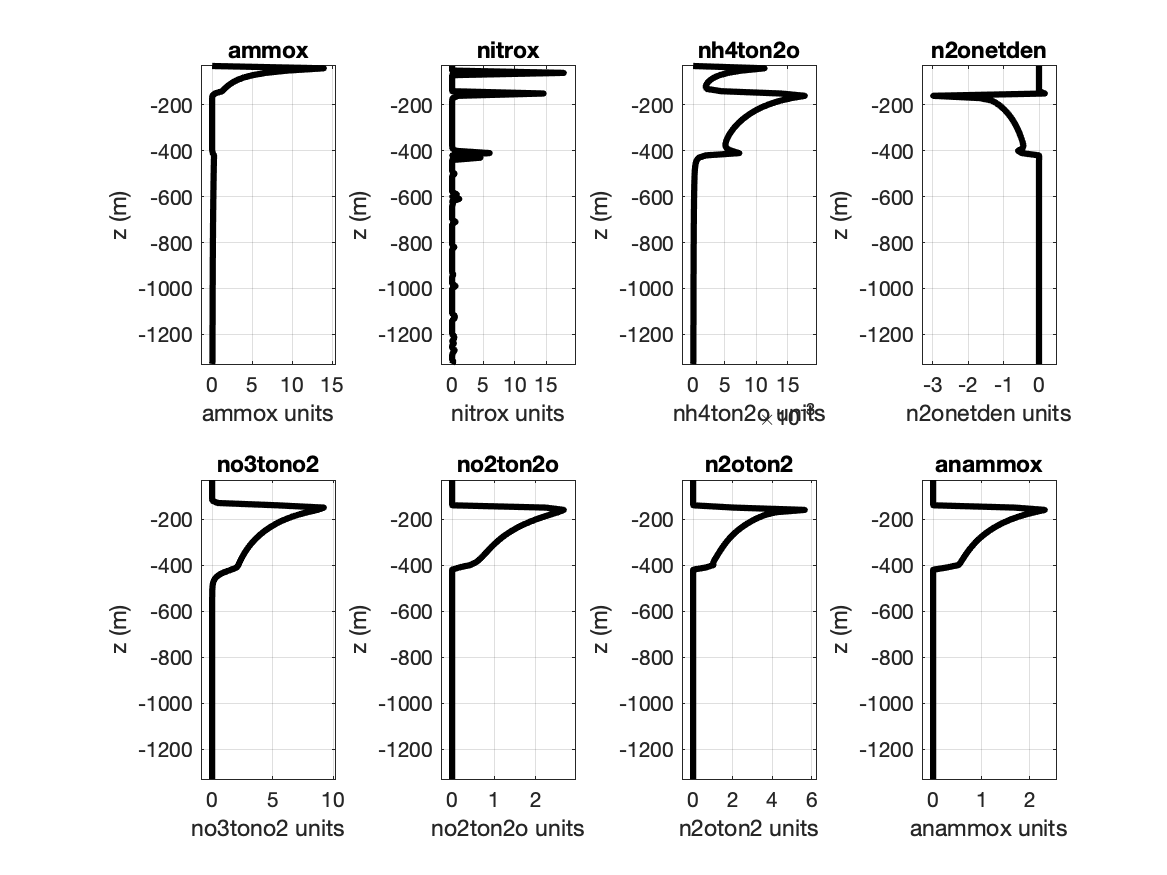
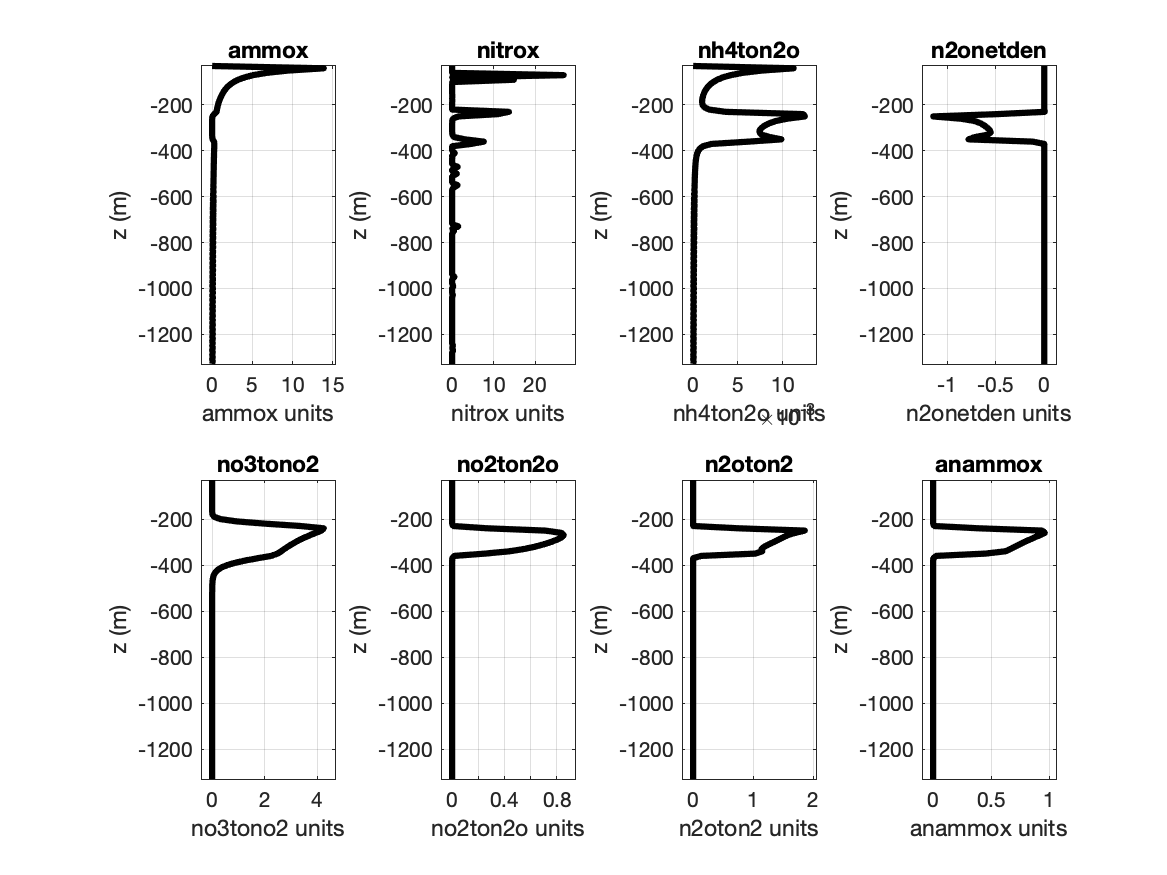
add RemDen4 to sms.poc

diff --git a/bgc1d_src/bgc1d_sourcesink_isos.m b/bgc1d_src/bgc1d_sourcesink_isos.m
@@ -115,11 +115,11 @@
  % (8)  Calculate SMS for each tracer
  %---------------------------------------------------------------------- 
  sms.o2   =  (-bgc.OCrem .* RemOx - 1.5.*Ammox - 0.5 .* Nitrox);
- sms.no3  =  (Nitrox - bgc.NCden1 .* RemDen1- bgc.NCden4 .* RemDen4);% .*bgc.r14no3;
- sms.poc  =  (- RemOx - (RemDen1+RemDen2+RemDen3));
+ sms.no3  =  (Nitrox - bgc.NCden1 .* RemDen1- bgc.NCden4 .* RemDen4) .*bgc.r14no3;
+ sms.poc  =  (- RemOx - (RemDen1+RemDen2+RemDen3+RemDen4));
  sms.po4  =  (+bgc.PCrem .* (RemOx) + bgc.PCden1 .* RemDen1 + bgc.PCden2 .* RemDen2 + bgc.PCden3 .* RemDen3+ bgc.PCden3 .* RemDen4);
- sms.nh4  =  (+ bgc.NCrem .* (RemOx + RemDen1 + RemDen2 + RemDen3 + RemDen4) - (Jnn2o_hx+Jno2_hx+Jnn2o_nden) - Anammox);% .*bgc.r14nh4;
- sms.no2  =  (Jno2_hx + bgc.NCden1 .* RemDen1 - bgc.NCden2 .* RemDen2 - Anammox - Nitrox);% .*bgc.r14no2;
+ sms.nh4  =  (+ bgc.NCrem .* (RemOx + RemDen1 + RemDen2 + RemDen3 + RemDen4) - (Jnn2o_hx+Jno2_hx+Jnn2o_nden) - Anammox) .*bgc.r14nh4;
+ sms.no2  =  (Jno2_hx + bgc.NCden1 .* RemDen1 - bgc.NCden2 .* RemDen2 - Anammox - Nitrox) .*bgc.r14no2;
  sms.n2   =  (bgc.NCden3 .* RemDen3 + Anammox);
  sms.kpoc = -(KRemOx + KRemDen1 + KRemDen2 + KRemDen3);
  % N2O individual SMSs
@@ -172,13 +172,13 @@
 
      sms.i15n2oA = p2nh4 .* bgc.alpha_ammox_n2oA .* sms.n2oind.ammox ...
                  + p2nh4 .* bgc.alpha_nden_n2oA .* sms.n2oind.nden ...
-                 + p2no2 * bgc.alpha_den2A  .* sms.n2oind.den2 ...
-                 + p2no3 * bgc.alpha_den2A  .* sms.n2oind.den4 ...
+                 + p2no2 .* bgc.alpha_den2A  .* sms.n2oind.den2 ...
+                 + p2no3 .* bgc.alpha_den2A  .* sms.n2oind.den4 ...
                  + bgc.r15n2oA .* bgc.alpha_den3_Alpha .* sms.n2oind.den3;
      sms.i15n2oB = p3nh4 .* bgc.alpha_ammox_n2oB .* sms.n2oind.ammox ...
                  + p3nh4 .* bgc.alpha_nden_n2oB .* sms.n2oind.nden ...
-                 + p3no2 * bgc.alpha_den2B  .* sms.n2oind.den2 ...
-                 + p3no3 * bgc.alpha_den2B  .* sms.n2oind.den4 ...
+                 + p3no2 .* bgc.alpha_den2B  .* sms.n2oind.den2 ...
+                 + p3no3 .* bgc.alpha_den2B  .* sms.n2oind.den4 ...
                  + bgc.r15n2oB .* bgc.alpha_den3_Beta .* sms.n2oind.den3;
 
  end

diff --git a/runscripts/bgc1d_initialize.m b/runscripts/bgc1d_initialize.m
@@ -22,7 +22,7 @@ bgc.FromRestart  = 0;           % If (1) then initialize from restart? (0) No
 bgc.SaveRestart  = 0;           % If (1) then save restart file? (0) No
 bgc.varsink      = 1;           % If (1) then use Martin curve, else use constant sinking speed. 
 bgc.depthvar_wup = 0;           % Constant (0) or depth-dependent (1) upwelling velocity
-bgc.depthvar_Kv  = 0; %1;       % Constant (0) or depth-dependent (1) diffusion profile %CLK: turning off depth-dependent allows us to replicate old model
+bgc.depthvar_Kv  = 1;       % Constant (0) or depth-dependent (1) diffusion profile %CLK: turning off depth-dependent allows us to replicate old model
 bgc.iTstep       = 3;           % Constant (1) or variable (2) time-stepping
 bgc.depparams    = 1;			% Initialize dependent parameters that depend on bgc1d_initbgc_params 
 bgc.RestoringOff = 1;	        % If (1), turns restoring off for all variables

diff --git a/bgc1d_src/bgc1d_initIso_update_r15n.m b/bgc1d_src/bgc1d_initIso_update_r15n.m
@@ -1,8 +1,8 @@
 function bgc = bgc1d_initIso_update_r15n(bgc,t)
 
- % % % % % % % % % % % % % % % % % % % % % % % % % %
- % This function updates isotope ratios 
- % % % % % % % % % % % % % % % % % % % % % % % % % %
+ % % % % % % % % % % % % % % % % % % % % % % % % % % %
+ % This function calculates and updates atom fractions
+ % % % % % % % % % % % % % % % % % % % % % % % % % % %
 
  %%%%%  ratios  %%%%%
  %%%%%%%%%%%%%%%%%%%%
